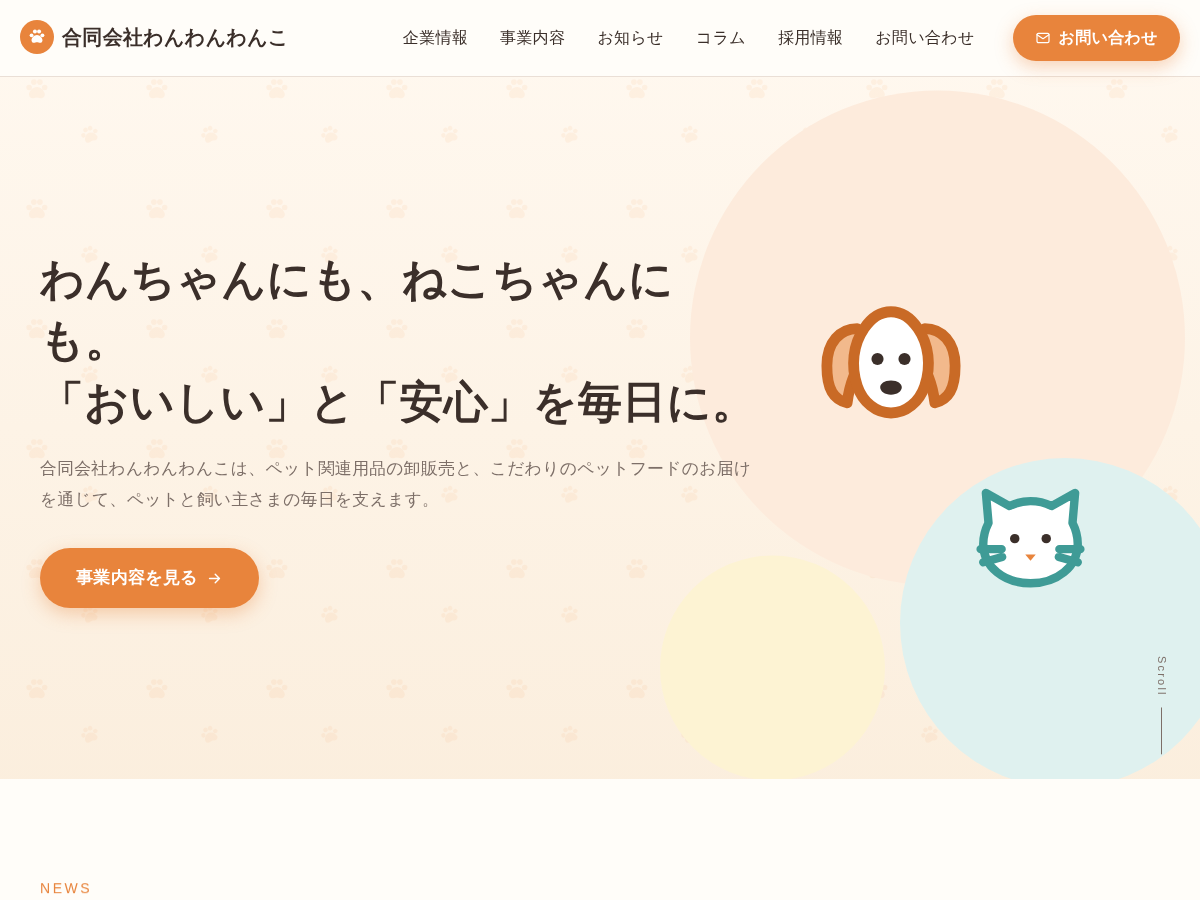
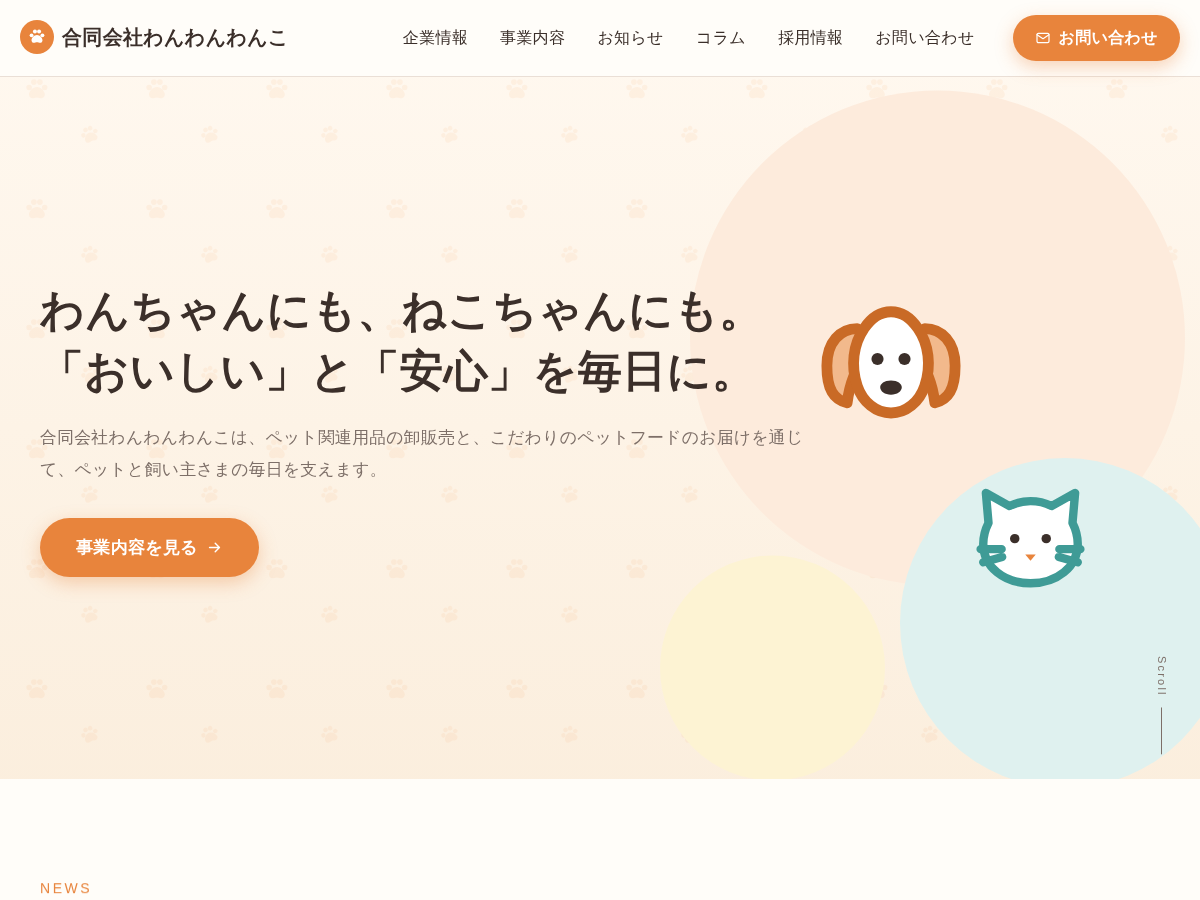
トップのキャッチコピーを行単位で折り返すよう調整
Claude-Session: https://claude.ai/code/session_011bhno5SEkpzsshMJkjn4Yk

Changed region(s): [[0.0308, 0.28, 0.6783, 0.6844]]

diff --git a/wp-content/themes/wanko/assets/css/main.css b/wp-content/themes/wanko/assets/css/main.css
@@ -120,8 +120,9 @@ iframe { max-width: 100%; }
 .hero__bg { position: absolute; inset: 0; }
 .hero__bg img { width: 100%; height: 100%; object-fit: cover; object-position: center; }
 .hero.has-image .hero__bg::after { content: ""; position: absolute; inset: 0; background: linear-gradient(90deg, rgba(255, 253, 249, .95) 0%, rgba(255, 253, 249, .75) 45%, rgba(255, 253, 249, .1) 100%); }
-.hero__inner { position: relative; z-index: 1; padding: 80px 0; max-width: 720px; margin-left: max(20px, calc((100% - var(--container)) / 2)); }
+.hero__inner { position: relative; z-index: 1; padding: 80px 0; max-width: 780px; margin-left: max(20px, calc((100% - var(--container)) / 2)); }
 .hero__catch { font-size: clamp(28px, 4vw, 44px); line-height: 1.4; margin-bottom: 20px; }
+.hero__line { display: inline-block; }
 .hero__lead { font-size: clamp(15px, 1.4vw, 17px); color: var(--c-muted); margin-bottom: 32px; }
 .hero__scroll { position: absolute; right: 28px; bottom: 24px; z-index: 1; writing-mode: vertical-rl; font-size: 11px; letter-spacing: .2em; color: var(--c-muted); display: flex; align-items: center; gap: 10px; }
 .hero__scroll::after { content: ""; width: 1px; height: 48px; background: var(--c-muted); animation: scroll-line 1.8s ease-in-out infinite; transform-origin: top; }

diff --git a/wp-content/themes/wanko/front-page.php b/wp-content/themes/wanko/front-page.php
@@ -22,7 +22,11 @@ if ( $btn_url && 0 === strpos( $btn_url, '/' ) ) {
 		<?php endif; ?>
 	</div>
 	<div class="container hero__inner">
-		<h1 class="hero__catch"><?php wanko_the_lines( 'hero_catch' ); ?></h1>
+		<h1 class="hero__catch">
+			<?php foreach ( preg_split( '/\r\n|\r|\n/', (string) wanko_get( 'hero_catch' ) ) as $line ) : ?>
+				<?php if ( '' !== trim( $line ) ) : ?><span class="hero__line"><?php echo esc_html( $line ); ?></span><?php endif; ?>
+			<?php endforeach; ?>
+		</h1>
 		<p class="hero__lead"><?php wanko_the_lines( 'hero_lead' ); ?></p>
 		<?php if ( wanko_get( 'hero_btn_label' ) ) : ?>
 			<a class="btn btn--primary btn--lg" href="<?php echo esc_url( $btn_url ); ?>"><?php echo esc_html( wanko_get( 'hero_btn_label' ) ); ?><?php echo wanko_icon( 'arrow' ); // phpcs:ignore ?></a>
